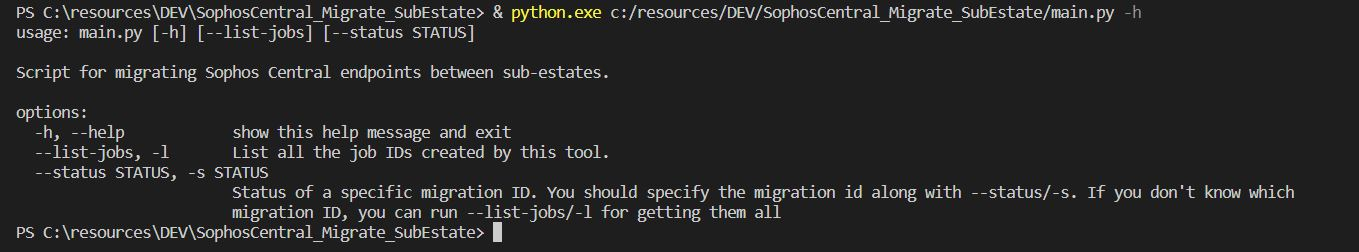
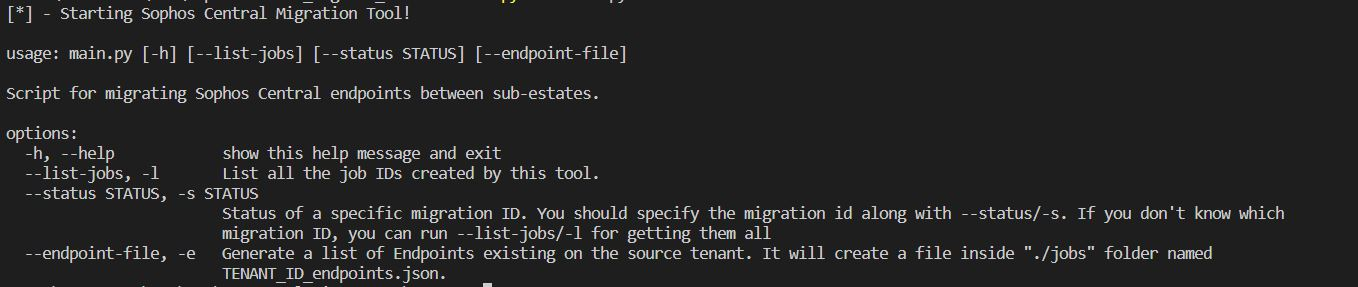
Adding option to migrate a specific list of endpoints

Changed region(s): [[0.0, 0.4167, 0.9588, 1.0], [0.0, 0.0, 0.8351, 0.2222], [0.0, 0.25, 0.4639, 0.3611]]

diff --git a/main.py b/main.py
@@ -12,37 +12,62 @@ from mwt import mwt
 from os import listdir
 from tokenize import endpats
 from os.path import isfile, join
-from asyncio.windows_events import NULL
-
+from argparse import RawTextHelpFormatter
 from vendors.sophos_central.sophos_auth import Auth
 from vendors.sophos_central.sophos_migrate import Migration
 from vendors.sophos_central.sophos_endpoints import Endpoint
 from config import sophos_central_api_config as api_conf
 
 auth = Auth()
-endpoint = Endpoint()
+endpoints = Endpoint()
 migration = Migration()
 users_uri = api_conf.users_uri
 endpoints_uri = api_conf.endpoints_uri
 migrations_uri = api_conf.migrations_uri
 
 def main(args = None):
-    answer = input("\n[*] - You really want to continue? [Yes / No]: ")
-    if any(answer.lower() == f for f in ['no', 'n', '0']):
-        print('[*] - Aborting execution!')
-        exit()
-    print("[*] - User confirmed. Continuing to create a new Migration Job.")
-
-    global endpoints_ids
-    global endpoints_list
+    # answer = input("\n[*] - You really want to continue? [Yes / No]: ")
+    # if any(answer.lower() == f for f in ['no', 'n', '0']):
+    #     print('[*] - Aborting execution!')
+    #     exit()
+    # print("[*] - User confirmed. Continuing to create a new Migration Job.")
     
     source_headers, source_central_dataregion = auth.get_headers("source_sophos_central")
+    
     dst_header, dst_central_dataregion = auth.get_headers("destination_sophos_central")
     
     Endpoints_URL = "{DATA_REGION}/{ENDPOINTS_URI}".format(DATA_REGION=source_central_dataregion, ENDPOINTS_URI=endpoints_uri)
 
-    endpoints_list, endpoints_ids = endpoint.get_all( source_headers, Endpoints_URL)
-    print("[*] - Getting all endpoints from Source tenant")
+    print("[*] - Getting list of endpoints from Source tenant")
+    endpoints_list, endpoints_ids, source_data = endpoints.get_all( source_headers, Endpoints_URL)
+    
+    if source_data == "from_file":
+        print("\n")
+        next_ep_id = ""
+        current = 0
+        for endpoint in endpoints_list:
+            if next_ep_id is endpoint['id']: continue
+            current += 1
+            next_endpoint = endpoints_list[current]
+            next_ep_id = next_endpoint['id']
+            print("Hostname: {:<30} Hostname:{:^5}".format(endpoint['hostname'],next_endpoint['hostname']))
+            print("{:<40} {:^10}".format(endpoint['id'],next_endpoint['id']))
+            current += 1
+            print("\n")
+
+        print("\n[*] - This endpoints on the list will be migrated\n")
+        print("\t[0] - Yes, continue with this list. ")
+        print("\t[1] - Migrate ALL endpoints from Central (ignore this list).")
+        print("\t[2] - Abort execution.")
+        
+        answer = input("\n[*] - Choose an option: ")
+        if int(answer) == 2:
+            print('\n\n[*] - Aborting execution!')
+            exit()
+        elif int(answer) == 1: 
+            print("[*] - Migrating all endpoints from Central.")
+            endpoints_list, endpoints_ids, source_data = endpoints.get_all( source_headers, Endpoints_URL, False)
+
     migration_job = migration.create_job(endpoints_ids, endpoints_list, source_headers['X-Tenant-ID'], dst_header, dst_central_dataregion)
 
     if migration_job:
@@ -50,15 +75,21 @@ def main(args = None):
         print("[*] - File with Job information created at: ./jobs/%s.json" % (start_migration_job['id']) )
 
 if __name__ == "__main__":
+    print("[*] - Starting Sophos Central Migration Tool!\n")
     parser = argparse.ArgumentParser(description='Script for migrating Sophos Central endpoints between sub-estates.')
     parser.add_argument('--list-jobs', '-l', help='List all the job IDs created by this tool.', action="store_true" )
-    parser.add_argument('--status', '-s', help='Status of a specific migration ID.\nYou should specify the migration id along with --status/-s.\n\nIf you don\'t know which migration ID, you can run --list-jobs/-l for getting them all',  type=str)
+    parser.add_argument('--status', '-s', help='Status of a specific migration ID.\nYou should specify the migration id along with --status/-s.\n\nIf you don\'t know which migration ID, you can run --list-jobs/-l for getting them all', type=str,)
+    parser.add_argument('--endpoint-file', '-e', action="store_true", help='Generate a list of Endpoints existing on the source tenant.\nIt will create a file inside \"./jobs\" folder named TENANT_ID_endpoints.json.')
 
     args = parser.parse_args()
 
     if args.status:
         dst_headers, dst_centralregion = auth.get_headers("destination_sophos_central")
         migration.status(dst_headers, dst_centralregion, args.status)
+    elif args.endpoint_file:
+        src_headers, src_centralregion = auth.get_headers("source_sophos_central")
+        Endpoints_URL = "{DATA_REGION}/{ENDPOINTS_URI}".format(DATA_REGION=src_centralregion, ENDPOINTS_URI=endpoints_uri)
+        endpoints.generate_ep_file(src_headers, Endpoints_URL)
     elif args.list_jobs:
         migration.list_jobs()
     else:

diff --git a/vendors/sophos_central/sophos_endpoints.py b/vendors/sophos_central/sophos_endpoints.py
@@ -1,3 +1,5 @@
+import os
+import json
 import requests
 from mwt import mwt
 
@@ -10,8 +12,45 @@ class Endpoint(object):
 
     def setHeaders(self, headers):
         self.headers = headers
+    
+    def generate_ep_file(self, tenant_headers, endpoints_url):
+        print("[*] - Generating a list of endpoints from Central...")
+        endpoints_list, endpoints_ids = self.fetch_all_endpoints(tenant_headers, endpoints_url)
 
-    def get_all(self, tenant_headers, endpoints_url):
+        endpoints_file = "./jobs/%s_endpoints.json" % (tenant_headers['X-Tenant-ID'])
+
+        try:
+            os.mkdir("./jobs")
+        except:
+            pass 
+        
+        try:
+            with open(endpoints_file, 'w') as outfile:
+                json.dump(endpoints_list, outfile, indent=4)
+
+        except IOError:
+            print("[*] - Error while creating endpoints file.")
+
+        print("[*] - List of endpoints generated to file: {EP_FILE}".format(EP_FILE=endpoints_file))
+
+    def get_all(self, tenant_headers, endpoints_url, use_generated_file = True):
+        
+        endpoints_file = "./jobs/%s_endpoints.json" % (tenant_headers['X-Tenant-ID'])
+        if endpoints_file and use_generated_file:
+            print("[*] - Using previously generated file: %s" % (endpoints_file))
+            with open(endpoints_file) as json_file:
+                endpoints_json = json.load(json_file)
+                endpoints_ids  = []
+                for endpoint in endpoints_json:
+                    endpoints_ids.append(endpoint['id'])
+            return endpoints_json, endpoints_ids, "from_file"
+        
+        print("[*] - Fetching endpoints from Sophos Central")
+        endpoints_list, endpoints_ids = self.fetch_all_endpoints(tenant_headers, endpoints_url)
+        return  endpoints_list, endpoints_ids, "from_central"
+        
+
+    def fetch_all_endpoints(self, tenant_headers, endpoints_url):
         params_data = {}
         params_data["pageTotal"] = True
         # params_data["pageSize"]  = 2

diff --git a/README.md b/README.md
@@ -30,6 +30,7 @@ This tool contains the main options:
 * *-h*: show help message 
 * *-l/--list-jobs*: List all jobs created on Destination tenant
 * *-s/--status*: Get status from a specific job ID
+* *-e/--endpoint-file*: This option will generate a list of all endpoint in "Jobs" folder. This json file could be modified in order to define only the endpoints that should be migrated. After editing this file, you can run the script again with no arguments to create a job with the new endpoints list.
 
 If none of these options have been passed on the command line, it will run the migration on all endpoints in source tenant.
 
